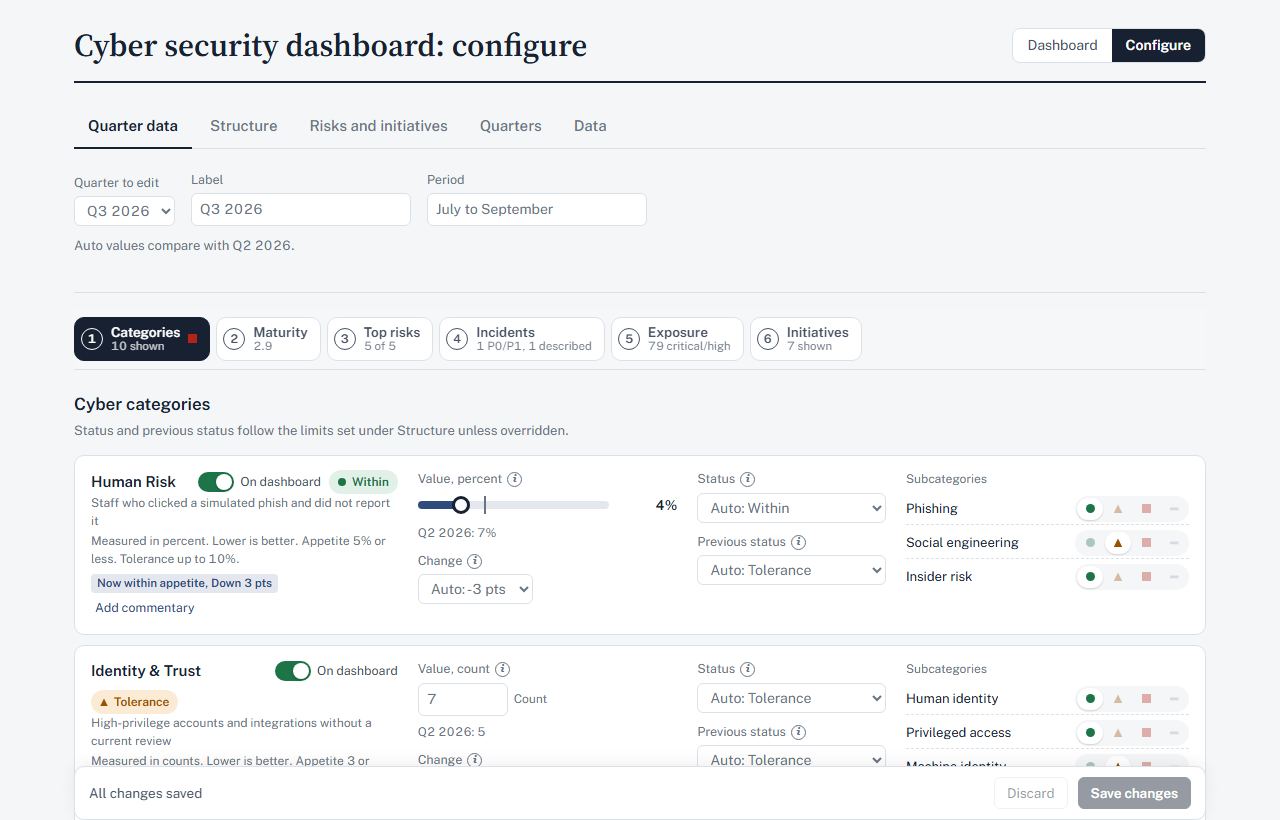
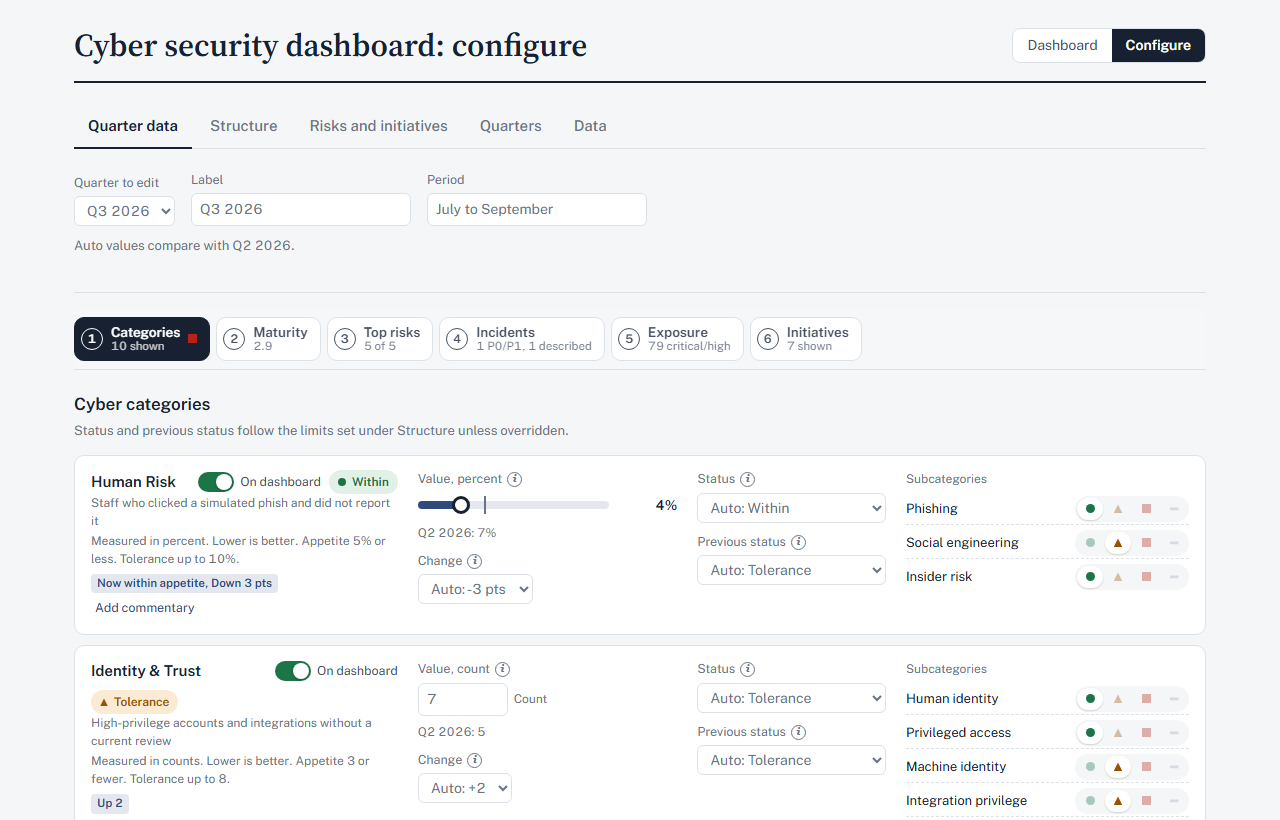
Regenerate screenshots; demo walks through all four sections

diff --git a/scripts/screenshots.py b/scripts/screenshots.py
@@ -55,6 +55,12 @@ def section(page, n, name, pad=16):
     page.evaluate("document.querySelector('.snav').style.visibility=''")
 
 
+def pin_config(page):
+    """Stop the save bar, filter bar and quarter tabs floating over full-page captures."""
+    page.add_style_tag(content=".savebar{visibility:hidden}.fbar,.qtabs{position:static!important}")
+    page.wait_for_timeout(100)
+
+
 def scroll_to_heading(page, text):
     page.evaluate(
         "t=>{const h=[...document.querySelectorAll('#cfg .csec h2')].find(x=>x.textContent.startsWith(t));"
@@ -108,6 +114,7 @@ def main():
 
             page.click('button[data-act="view"][data-a="config"]')
             page.wait_for_timeout(300)
+            pin_config(page)
             page.mouse.move(1, 1)
             page.evaluate("scrollTo(0,0)")
             page.screenshot(path=str(OUT / "configure-quarter-data.png"))
@@ -126,7 +133,8 @@ def main():
             page.click('button[data-act="regview"][data-a="inits"]')
             page.locator('button[data-act="editinit"]').first.click()
             page.wait_for_timeout(400)
-            page.evaluate("document.querySelector('.rrow.open').scrollIntoView({block:'start'}); scrollBy(0,-90)")
+            page.evaluate("document.querySelector('.rrow.open .fair').scrollIntoView({block:'end'}); scrollBy(0,40)")
+            page.wait_for_timeout(200)
             page.screenshot(path=str(OUT / "configure-initiative-value.png"))
 
             page.click('button[data-act="tab"][data-a="structure"]')
@@ -155,19 +163,40 @@ def main():
         page.screenshot(path=str(OUT / "mobile-what-has-changed.png"))
         ctx.close()
 
-        # Animated walkthrough: scroll from the overview into What has changed.
+        # Animated walkthrough: scroll through all four sections, holding only on What has changed.
         ctx = browser.new_context(viewport={"width": 1280, "height": 820})
         page = load(ctx, url)
         page.wait_for_timeout(300)
-        frames = []
-        for i in range(46):
-            if 8 <= i < 16:
-                page.evaluate(f"scrollTo(0,{(i - 7) * 95})")
+        tops = page.evaluate("[2,4].map(n=>document.getElementById('sec-'+n).getBoundingClientRect().top+scrollY-70)")
+        end = page.evaluate("document.documentElement.scrollHeight-innerHeight")
+        stop2, last = int(tops[0]), int(min(end, tops[1] + 200))
+        frames, durations = [], []
+
+        def grab(ms):
             png = page.screenshot(type="png")
             frames.append(Image.open(io.BytesIO(png)).convert("RGB").resize((800, 512), Image.LANCZOS))
+            durations.append(ms)
+
+        grab(1200)
+        for k in range(1, 10):
+            page.evaluate(f"scrollTo(0,{round(stop2 * k / 9)})")
             page.wait_for_timeout(70)
+            grab(90)
+        for _ in range(10):
+            page.wait_for_timeout(90)
+            grab(90)
+        durations[-1] = 2800
+        steps = max(12, (last - stop2) // 110)
+        for k in range(1, steps + 1):
+            page.evaluate(f"scrollTo(0,{round(stop2 + (last - stop2) * k / steps)})")
+            page.wait_for_timeout(70)
+            grab(90)
+        for _ in range(6):
+            page.wait_for_timeout(90)
+            grab(90)
+        durations[-1] = 900
         palette = [f.quantize(colors=128, method=Image.Quantize.MEDIANCUT) for f in frames]
-        palette[0].save(OUT / "demo.gif", save_all=True, append_images=palette[1:], duration=[900] + [110] * 44 + [2500], loop=0, optimize=True)
+        palette[0].save(OUT / "demo.gif", save_all=True, append_images=palette[1:], duration=durations, loop=0, optimize=True)
         ctx.close()
         browser.close()
     httpd.shutdown()
